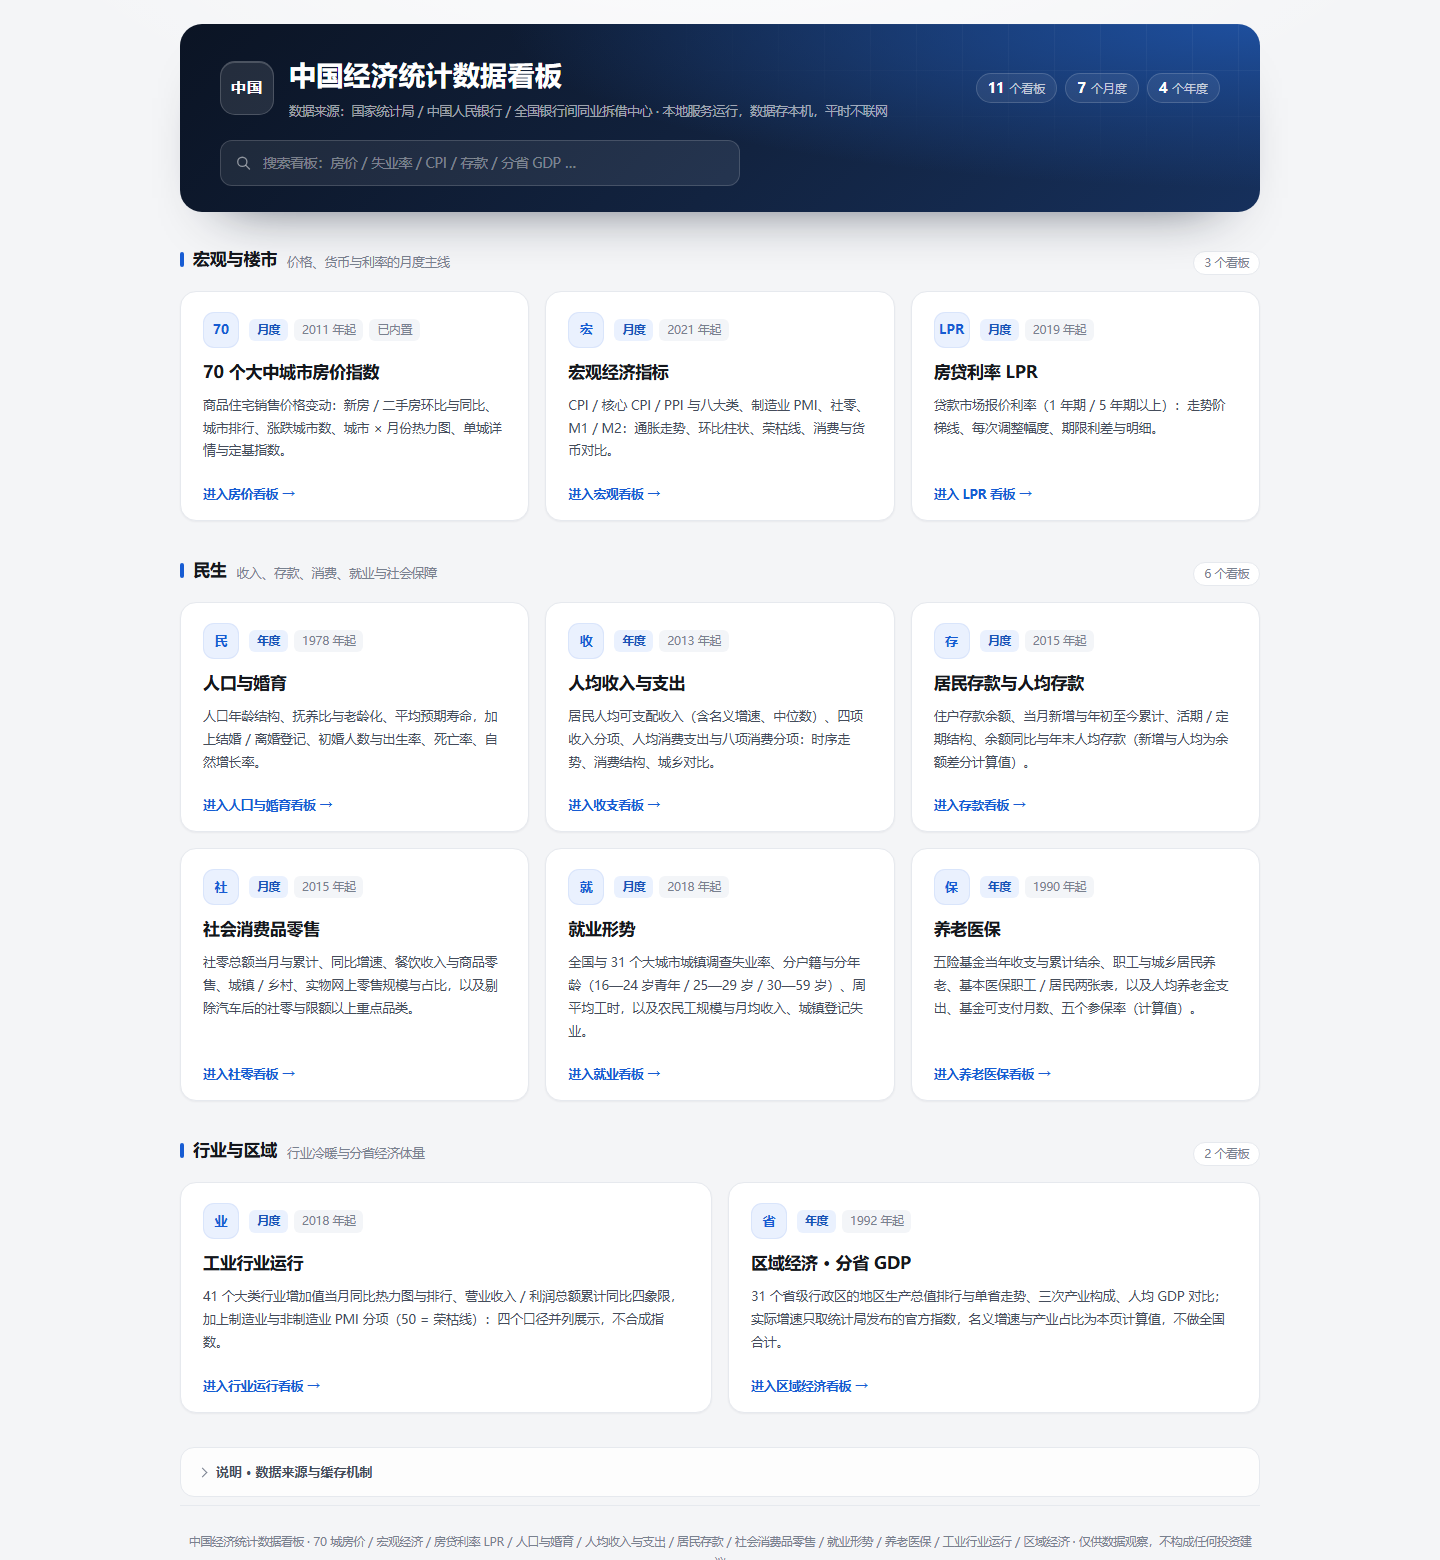
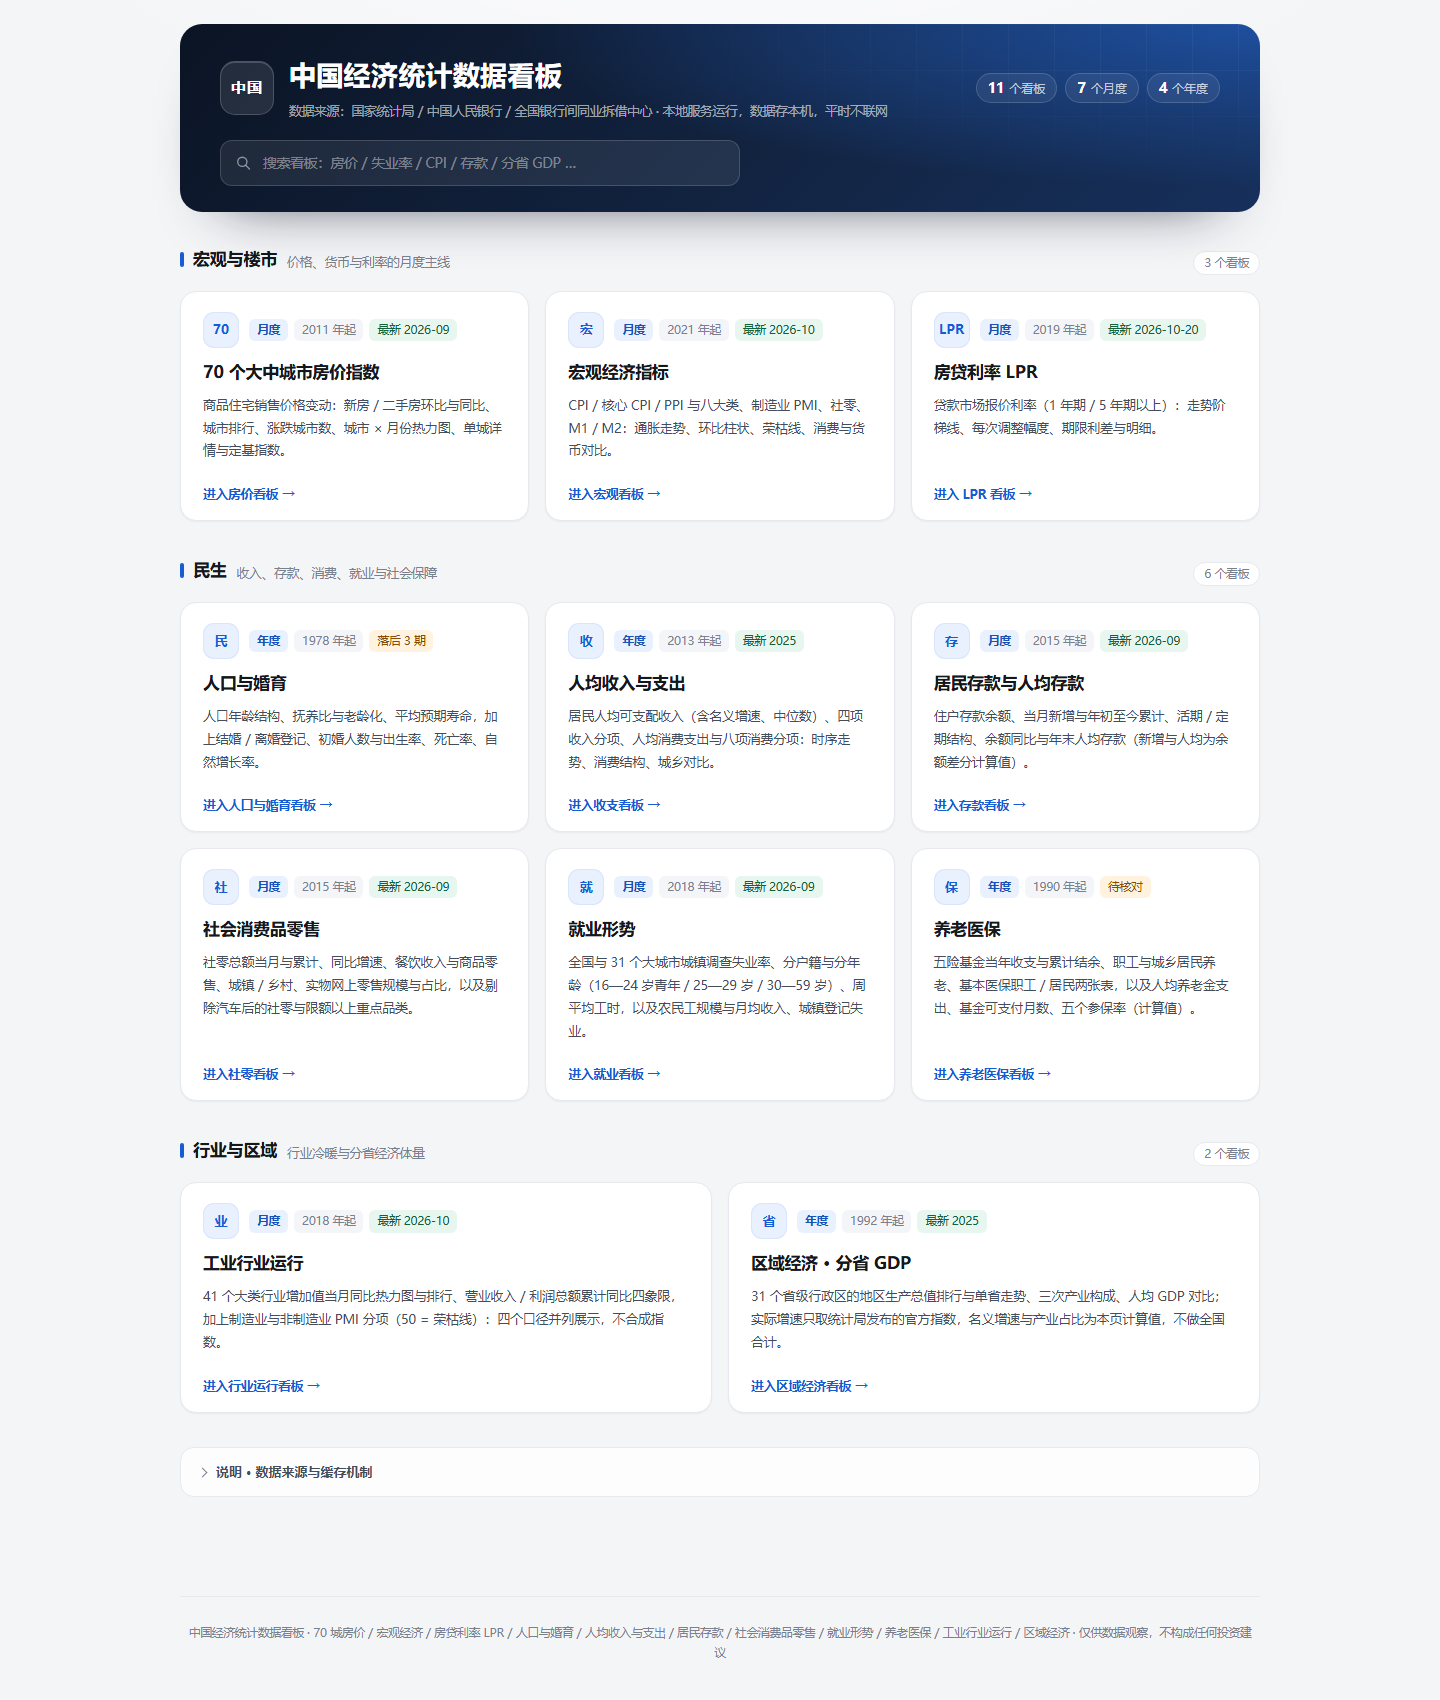
feat: 首页卡片显示各看板数据新鲜度，/api/health 增加统一 fresh 摘要
各模块 health 字段口径不一（latest / latestMonth / latestYear / lastDate，behind 是期数或布尔），在 server.js 收成一套 {latest, period, behind, stale} 后供首页复用；housingDatasetInfo 增加 firstMonth / lastMonth / count，并按 mtime 缓存 JSON.parse。

首页按 fresh 给每张卡片加状态胶囊：已覆盖到最新期别显示「最新 YYYY-MM」，上游已发布更晚期别显示「落后 N 期」，本地缓存未覆盖显示「待核对」；服务不在时静默跳过，不影响首页可用。

diff --git a/public/index.html b/public/index.html
@@ -49,14 +49,13 @@
             <span class="group-count" data-count>3 个看板</span>
           </div>
           <div class="modules">
-            <a class="module" href="housing/" data-freq="月度"
+            <a class="module" href="housing/" data-health="housing" data-freq="月度"
               data-keywords="房价 住宅 新房 二手房 70城 环比 同比 定基 热力图 城市 楼市">
               <div class="module-top">
                 <span class="module-mark">70</span>
                 <div class="module-meta">
                   <span class="chip chip--freq">月度</span>
                   <span class="chip">2011 年起</span>
-                  <span class="chip">已内置</span>
                 </div>
               </div>
               <h3>70 个大中城市房价指数</h3>
@@ -64,7 +63,7 @@
               <span class="module-go">进入房价看板<span class="arrow">→</span></span>
             </a>
 
-            <a class="module" href="macro/" data-freq="月度"
+            <a class="module" href="macro/" data-health="macro" data-freq="月度"
               data-keywords="CPI PPI PMI 核心CPI 社零 M1 M2 通胀 货币 荣枯线 八大类 宏观">
               <div class="module-top">
                 <span class="module-mark">宏</span>
@@ -78,7 +77,7 @@
               <span class="module-go">进入宏观看板<span class="arrow">→</span></span>
             </a>
 
-            <a class="module" href="lpr/" data-freq="月度"
+            <a class="module" href="lpr/" data-health="lpr" data-freq="月度"
               data-keywords="房贷 利率 LPR 贷款 报价 5年期 1年期 货币网 利差">
               <div class="module-top">
                 <span class="module-mark">LPR</span>
@@ -101,7 +100,7 @@
             <span class="group-count" data-count>6 个看板</span>
           </div>
           <div class="modules">
-            <a class="module" href="livelihood/" data-freq="年度"
+            <a class="module" href="livelihood/" data-health="livelihood" data-freq="年度"
               data-keywords="人口 年龄结构 老龄化 抚养比 预期寿命 结婚 离婚 初婚 出生率 死亡率 婚育">
               <div class="module-top">
                 <span class="module-mark">民</span>
@@ -115,7 +114,7 @@
               <span class="module-go">进入人口与婚育看板<span class="arrow">→</span></span>
             </a>
 
-            <a class="module" href="livelihood/income/" data-freq="年度"
+            <a class="module" href="livelihood/income/" data-health="livelihoodIncome" data-freq="年度"
               data-keywords="收入 可支配 支出 消费 中位数 城乡 收支 分项 饼图 名义增速">
               <div class="module-top">
                 <span class="module-mark">收</span>
@@ -129,7 +128,7 @@
               <span class="module-go">进入收支看板<span class="arrow">→</span></span>
             </a>
 
-            <a class="module" href="livelihood/deposit/" data-freq="月度"
+            <a class="module" href="livelihood/deposit/" data-health="livelihoodDeposit" data-freq="月度"
               data-keywords="存款 储蓄 活期 定期 人均存款 住户 余额 新增 信贷收支">
               <div class="module-top">
                 <span class="module-mark">存</span>
@@ -143,7 +142,7 @@
               <span class="module-go">进入存款看板<span class="arrow">→</span></span>
             </a>
 
-            <a class="module" href="livelihood/retail/" data-freq="月度"
+            <a class="module" href="livelihood/retail/" data-health="livelihoodRetail" data-freq="月度"
               data-keywords="社零 零售 消费 餐饮 网上零售 汽车 家电 城乡 限额以上">
               <div class="module-top">
                 <span class="module-mark">社</span>
@@ -157,7 +156,7 @@
               <span class="module-go">进入社零看板<span class="arrow">→</span></span>
             </a>
 
-            <a class="module" href="livelihood/employment/" data-freq="月度"
+            <a class="module" href="livelihood/employment/" data-health="livelihoodEmployment" data-freq="月度"
               data-keywords="就业 失业率 调查失业 工时 农民工 青年 登记失业 户籍 大城市">
               <div class="module-top">
                 <span class="module-mark">就</span>
@@ -171,7 +170,7 @@
               <span class="module-go">进入就业看板<span class="arrow">→</span></span>
             </a>
 
-            <a class="module" href="livelihood/security/" data-freq="年度"
+            <a class="module" href="livelihood/security/" data-health="livelihoodSecurity" data-freq="年度"
               data-keywords="养老 医保 社保 五险 养老金 参保 基金 结余 失业 工伤 生育 可支付月数">
               <div class="module-top">
                 <span class="module-mark">保</span>
@@ -194,7 +193,7 @@
             <span class="group-count" data-count>2 个看板</span>
           </div>
           <div class="modules modules--duo">
-            <a class="module" href="industry/" data-freq="月度"
+            <a class="module" href="industry/" data-health="industry" data-freq="月度"
               data-keywords="工业 行业 制造业 增加值 营收 利润 PMI 热力图 四象限 41个大类">
               <div class="module-top">
                 <span class="module-mark">业</span>
@@ -208,7 +207,7 @@
               <span class="module-go">进入行业运行看板<span class="arrow">→</span></span>
             </a>
 
-            <a class="module" href="region/" data-freq="年度"
+            <a class="module" href="region/" data-health="region" data-freq="年度"
               data-keywords="区域 省份 省 GDP 人均 三次产业 排行 31省 名义增速 实际增速">
               <div class="module-top">
                 <span class="module-mark">省</span>
@@ -306,6 +305,47 @@
             apply();
           }
         });
+
+        // 数据新鲜度：一次 /api/health，给每张卡片补「最新 2026-10 / 待更新 · 落后 3 期」的标签。
+        // 拉不到就什么都不显示（不离线不可用），失败的卡片保留原有徽章。
+        fetch("/api/health")
+          .then(function (res) {
+            return res.ok ? res.json() : null;
+          })
+          .then(function (json) {
+            var fresh = json && json.fresh;
+            if (!fresh) return;
+
+            cards.forEach(function (card) {
+              var info = fresh[card.dataset.health];
+              var meta = card.querySelector(".module-meta");
+              if (!info || !meta) return;
+
+              var chip = document.createElement("span");
+              chip.className = "chip chip--fresh";
+
+              if (typeof info.behind === "number" && info.behind > 0) {
+                chip.textContent = "落后 " + info.behind + " 期";
+                chip.classList.add("is-warn");
+                chip.title = "最新一期 " + info.latest + "，上游已发布到更晚的期别";
+              } else if (info.stale) {
+                chip.textContent = "待核对";
+                chip.classList.add("is-warn");
+                chip.title = "本地缓存未全部覆盖最新应发布期别（截至 " + info.latest + "），下次打开页面会自动核对上游";
+              } else if (info.latest) {
+                chip.textContent = "最新 " + info.latest;
+                chip.classList.add("is-ok");
+                chip.title = "本地缓存已覆盖到上游最新期别";
+              } else {
+                return;
+              }
+
+              meta.appendChild(chip);
+            });
+          })
+          .catch(function () {
+            /* 服务不在时首页仍可用，只是不显示新鲜度 */
+          });
       })();
     </script>
   </body>

diff --git a/server.js b/server.js
@@ -81,10 +81,28 @@ function sendJson(res, code, data) {
   res.end(body);
 }
 
+let housingMeta = null; // periods.json 的顶层 meta，只在文件变更时重读
+
 function housingDatasetInfo() {
   try {
     const st = fs.statSync(HOUSING_DATASET);
-    return { file: 'data/periods.json', size: st.size, updatedAt: st.mtime.toISOString() };
+    if (!housingMeta || housingMeta.mtime !== st.mtimeMs) {
+      const data = JSON.parse(fs.readFileSync(HOUSING_DATASET, 'utf8'));
+      housingMeta = {
+        mtime: st.mtimeMs,
+        firstMonth: data.firstMonth,
+        lastMonth: data.lastMonth,
+        count: data.count,
+      };
+    }
+    return {
+      file: 'data/periods.json',
+      size: st.size,
+      updatedAt: st.mtime.toISOString(),
+      firstMonth: housingMeta.firstMonth,
+      lastMonth: housingMeta.lastMonth,
+      count: housingMeta.count,
+    };
   } catch (e) {
     return null;
   }
@@ -137,24 +155,30 @@ function serveStatic(req, res, pathname) {
 }
 
 /** 健康检查：各看板的概况（start.bat 也靠它确认端口上确实是本服务） */
+/**
+ * 首页卡片用的新鲜度摘要。各模块 health 的字段口径不一（latest / latestMonth /
+ * latestYear / lastDate，behind 有的是期数、有的是布尔），在这里收成一套：
+ * { latest, period: 'day'|'month'|'year'|null, behind: 期数|null, stale }
+ * behind 为 null 表示只知道落后、期数未定；stale 为 true 表示上游不可达、用的是旧缓存。
+ */
+function freshness(h) {
+  const ds = (h && h.dataset) || {};
+  const cache = (h && h.cache) || {};
+  const latest = ds.latest || ds.latestMonth || ds.latestYear || ds.lastMonth || cache.lastDate || null;
+  let period = null;
+  if (latest) {
+    if (/^\d{4}-\d{2}-\d{2}$/.test(latest)) period = 'day';
+    else if (/^\d{4}-\d{2}$/.test(latest)) period = 'month';
+    else if (/^\d{4}$/.test(latest)) period = 'year';
+  }
+  let behind = ds.behind;
+  if (behind === true) behind = null;
+  else if (!behind) behind = 0;
+  return { latest: latest, period: period, behind: behind, stale: !!(h && h.stale) };
+}
+
 function health() {
-  return {
-    ok: true,
-    uptime: process.uptime(),
-    now: new Date().toISOString(),
-    modules: [
-      'housing',
-      'macro',
-      'lpr',
-      'livelihood',
-      'livelihood-income',
-      'livelihood-deposit',
-      'livelihood-retail',
-      'livelihood-employment',
-      'livelihood-security',
-      'industry',
-      'region',
-    ],
+  const modules = {
     housing: { dataset: housingDatasetInfo() },
     macro: { cache: macroStore.stats(), dataset: macroSeries.datasetStatus() },
     lpr: lprApi.health(),
@@ -167,6 +191,32 @@ function health() {
     industry: industryApi.health(),
     region: regionApi.health(),
   };
+  const fresh = {};
+  Object.keys(modules).forEach((k) => {
+    fresh[k] = freshness(modules[k]);
+  });
+  return Object.assign(
+    {
+      ok: true,
+      uptime: process.uptime(),
+      now: new Date().toISOString(),
+      modules: [
+        'housing',
+        'macro',
+        'lpr',
+        'livelihood',
+        'livelihood-income',
+        'livelihood-deposit',
+        'livelihood-retail',
+        'livelihood-employment',
+        'livelihood-security',
+        'industry',
+        'region',
+      ],
+      fresh: fresh,
+    },
+    modules
+  );
 }
 
 const server = http.createServer((req, res) => {

diff --git a/public/home.css b/public/home.css
@@ -379,6 +379,21 @@ body {
   font-weight: 600;
 }
 
+/* 数据新鲜度：绿 = 已跟上上游，橙 = 落后 / 上游不可达（由 /api/health 注入） */
+.chip--fresh {
+  font-variant-numeric: tabular-nums;
+}
+
+.chip--fresh.is-ok {
+  background: #e7f6ee;
+  color: #14603a;
+}
+
+.chip--fresh.is-warn {
+  background: #fff3e0;
+  color: #8a4b00;
+}
+
 .module h3 {
   margin: 2px 0 0;
   font-size: 16.5px;
